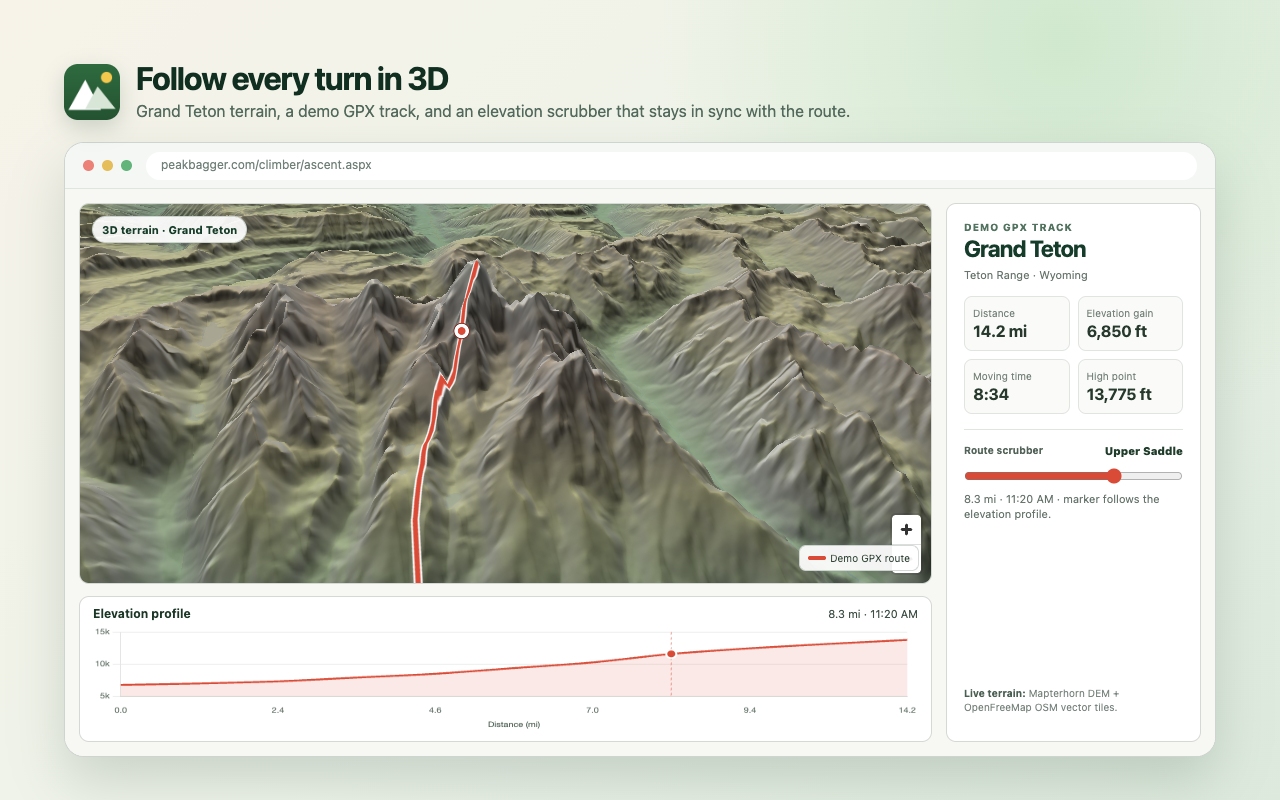
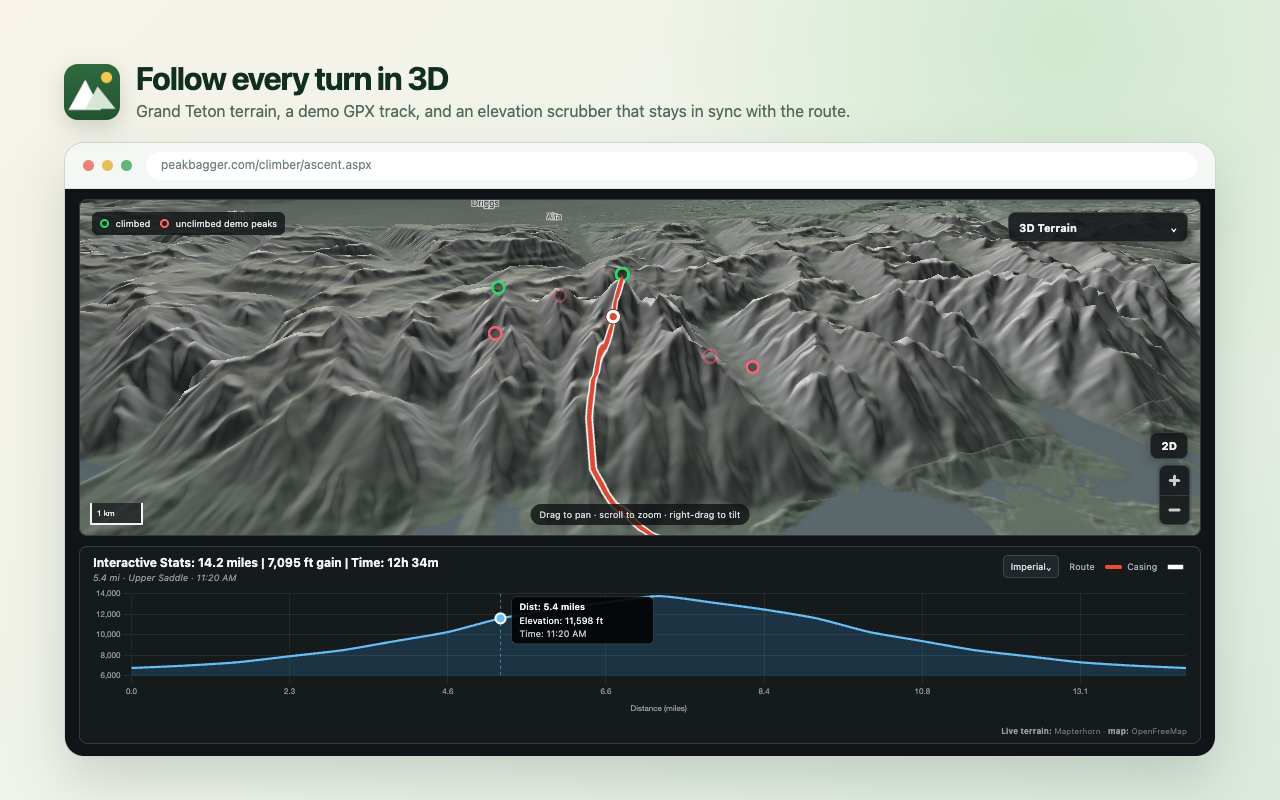
feat: restyle grand teton showcase
Replace the dashboard sidebar with the Peakbagger-like stacked terrain and elevation layout, including a round-trip profile, synchronized hover state, peak rings, and a working 2D/3D control. Keep the live providers and 1280x800 store frame, and flush the static header before capture to avoid a new-headless WebGL compositing omission. Document why the fixture batch and live Teton renderers remain separate.

Checks: npm test (275 passed); npm run showcase:teton:render (passed in hidden Chrome for Testing at 1280x800 with Apple M3 Pro Metal and both live providers); hidden Playwright interaction smoke (chart hover and 2D/3D toggle passed); rendered PNG visually inspected.

diff --git a/scripts/showcase/teton-live-terrain.html b/scripts/showcase/teton-live-terrain.html
@@ -7,34 +7,34 @@
   <link rel="stylesheet" href="/scripts/showcase/showcase.css">
   <link rel="stylesheet" href="/dist/vendor/maplibre-gl.css">
   <style>
-    .terrain-stage { height: calc(100% - 46px); padding: 14px; background: #f7f7f3; }
-    .terrain-layout { display: grid; grid-template-columns: minmax(0, 1fr) 255px; gap: 14px; height: 100%; }
-    .terrain-left { display: grid; grid-template-rows: minmax(0, 1fr) 146px; gap: 12px; min-width: 0; }
-    .map-card, .chart-card, .stats-card { overflow: hidden; border: 1px solid #d5d9d4; border-radius: 10px; background: #fff; }
-    .map-card { position: relative; width: auto; height: auto; min-height: 0; margin: 0; background: #dce6e1; }
+    .terrain-stage { height: calc(100% - 46px); padding: 10px 14px 12px; color: #d9dfe2; background: #101416; }
+    .terrain-layout { display: grid; grid-template-rows: minmax(0, 1.7fr) minmax(190px, 1fr); gap: 10px; height: 100%; }
+    .map-card, .chart-card { overflow: hidden; border: 1px solid #343c40; border-radius: 8px; background: #151a1d; }
+    .map-card { position: relative; width: auto; height: auto; min-height: 0; margin: 0; }
     #teton-map { width: 100%; height: 100%; }
-    .map-tag { position: absolute; top: 12px; left: 12px; z-index: 2; border: 1px solid rgba(19, 56, 37, .18); border-radius: 999px; padding: 6px 9px; color: #173d2a; background: rgba(255, 255, 255, .92); box-shadow: 0 2px 8px rgba(0, 0, 0, .12); font-size: 11px; font-weight: 750; pointer-events: none; }
-    .map-legend { position: absolute; right: 12px; bottom: 12px; z-index: 2; border: 1px solid rgba(19, 56, 37, .18); border-radius: 7px; padding: 6px 8px; color: #34463a; background: rgba(255, 255, 255, .92); font-size: 10px; pointer-events: none; }
-    .map-legend i { display: inline-block; width: 18px; height: 4px; margin: 0 4px 2px 0; border-radius: 3px; background: #d94b36; vertical-align: middle; }
-    .chart-card { position: relative; padding: 9px 12px 7px; }
-    .chart-head { display: flex; align-items: baseline; justify-content: space-between; margin: 0 1px 4px; color: #405048; font-size: 11px; }
-    .chart-head strong { color: #1c3628; font-size: 12px; }
-    #elevation-chart { width: 100% !important; height: 108px !important; }
-    .stats-card { display: flex; flex-direction: column; padding: 17px; color: #24382c; }
-    .eyebrow { margin: 0 0 4px; color: #52735f; font-size: 10px; font-weight: 800; letter-spacing: .1em; text-transform: uppercase; }
-    .stats-card h2 { margin: 0; color: #153b2a; font-size: 23px; line-height: 1.08; letter-spacing: -.035em; }
-    .subhead { margin: 6px 0 15px; color: #68766e; font-size: 11px; }
-    .metrics { display: grid; grid-template-columns: 1fr 1fr; gap: 8px; }
-    .metric { padding: 10px 8px; border: 1px solid #e0e5df; border-radius: 8px; background: #fafbf9; }
-    .metric span { display: block; color: #77847b; font-size: 10px; }
-    .metric strong { display: block; margin-top: 3px; color: #26392c; font-size: 16px; letter-spacing: -.02em; }
-    .scrubber { margin-top: 15px; padding-top: 14px; border-top: 1px solid #e0e5df; }
-    .scrubber-title { display: flex; align-items: center; justify-content: space-between; gap: 8px; color: #536359; font-size: 10px; font-weight: 700; }
-    .scrubber-title strong { color: #213e2c; font-size: 11px; }
-    input[type="range"] { width: 100%; margin: 11px 0 8px; accent-color: #d94b36; }
-    .scrubber-copy { margin: 0; color: #68766e; font-size: 11px; line-height: 1.35; }
-    .providers { margin-top: auto; padding-top: 14px; color: #7a867f; font-size: 10px; line-height: 1.35; }
-    .providers b { color: #4b5f52; }
+    .map-style { position: absolute; top: 12px; right: 12px; z-index: 2; display: flex; align-items: center; justify-content: space-between; width: 180px; border: 1px solid rgba(255, 255, 255, .16); border-radius: 7px; padding: 7px 10px; color: #eef1f2; background: rgba(20, 24, 25, .9); box-shadow: 0 3px 12px rgba(0, 0, 0, .24); font-size: 11px; font-weight: 700; pointer-events: none; }
+    .map-mode { position: absolute; right: 12px; bottom: 76px; z-index: 2; border: 1px solid rgba(255, 255, 255, .14); border-radius: 7px; padding: 7px 10px; color: #f0f2f3; background: rgba(20, 24, 25, .9); box-shadow: 0 3px 12px rgba(0, 0, 0, .24); font: 750 11px/1 system-ui, sans-serif; cursor: pointer; }
+    .map-hint { position: absolute; left: 50%; bottom: 10px; z-index: 2; transform: translateX(-50%); border-radius: 999px; padding: 5px 9px; color: #d3d8da; background: rgba(13, 16, 17, .78); font-size: 9px; pointer-events: none; }
+    .peak-legend { position: absolute; left: 12px; top: 12px; z-index: 2; border-radius: 6px; padding: 6px 8px; color: #e7eaeb; background: rgba(18, 22, 23, .84); font-size: 9px; pointer-events: none; }
+    .peak-legend i { display: inline-block; width: 9px; height: 9px; margin: 0 4px -1px 7px; border: 2px solid #ff6175; border-radius: 50%; }
+    .peak-legend i:first-child { margin-left: 0; border-color: #25df61; }
+    .chart-card { position: relative; padding: 8px 13px 7px; }
+    .chart-summary { display: grid; grid-template-columns: minmax(0, 1fr) auto; align-items: start; gap: 18px; margin-bottom: 3px; }
+    .chart-summary strong { display: block; color: #f2f4f5; font-size: 12px; letter-spacing: -.01em; }
+    .chart-summary p { margin: 2px 0 0; color: #8f9aa0; font-size: 9px; font-style: italic; }
+    .chart-actions { display: flex; align-items: center; gap: 10px; color: #aab2b6; font-size: 9px; }
+    .unit-pill { border: 1px solid #3c474c; border-radius: 5px; padding: 5px 7px; color: #dce1e3; background: #20272a; font-size: 9px; }
+    .route-key i { display: inline-block; width: 17px; height: 4px; margin: 0 3px 1px 7px; border-radius: 2px; background: #ef4b32; vertical-align: middle; }
+    .route-key i.casing { height: 6px; border: 1px solid #4a5357; background: #fff; }
+    .chart-wrap { height: 137px; }
+    #elevation-chart { width: 100% !important; height: 137px !important; }
+    .providers { position: absolute; right: 13px; bottom: 7px; margin: 0; color: #6e797f; font-size: 8px; }
+    .providers b { color: #929ca1; }
+    .maplibregl-ctrl-group { overflow: hidden; border: 1px solid rgba(255,255,255,.14); border-radius: 7px; background: rgba(20, 24, 25, .9); box-shadow: 0 3px 12px rgba(0,0,0,.24); }
+    .maplibregl-ctrl-group button { background-color: transparent; }
+    .maplibregl-ctrl-group button + button { border-top-color: rgba(255,255,255,.12); }
+    .maplibregl-ctrl-group button .maplibregl-ctrl-icon { filter: invert(1); }
+    .maplibregl-ctrl-scale { border-color: #f2f2f2; color: #f2f2f2; background: rgba(20, 24, 25, .72); font-size: 8px; }
   </style>
 </head>
 <body>
@@ -51,34 +51,27 @@
       <div class="browser-bar"><span class="traffic-lights"><i></i><i></i><i></i></span><div class="address">peakbagger.com/climber/ascent.aspx</div></div>
       <div class="terrain-stage">
         <div class="terrain-layout">
-          <div class="terrain-left">
-            <section class="map-card">
-              <div id="teton-map" aria-label="Interactive 3D terrain map of Grand Teton"></div>
-              <span class="map-tag">3D terrain · Grand Teton</span>
-              <span class="map-legend"><i></i>Demo GPX route</span>
-            </section>
-            <section class="chart-card" aria-label="Elevation profile">
-              <div class="chart-head"><strong>Elevation profile</strong><span id="chart-distance">8.3 mi · 11:20 AM</span></div>
-              <canvas id="elevation-chart"></canvas>
-            </section>
-          </div>
-          <aside class="stats-card">
-            <p class="eyebrow">Demo GPX track</p>
-            <h2>Grand Teton</h2>
-            <p class="subhead">Teton Range · Wyoming</p>
-            <div class="metrics">
-              <div class="metric"><span>Distance</span><strong>14.2 mi</strong></div>
-              <div class="metric"><span>Elevation gain</span><strong>6,850 ft</strong></div>
-              <div class="metric"><span>Moving time</span><strong>8:34</strong></div>
-              <div class="metric"><span>High point</span><strong>13,775 ft</strong></div>
+          <section class="map-card">
+            <div id="teton-map" aria-label="Interactive 3D terrain map of Grand Teton"></div>
+            <span class="peak-legend"><i></i> climbed <i></i> unclimbed demo peaks</span>
+            <span class="map-style">3D Terrain <span aria-hidden="true">⌄</span></span>
+            <button class="map-mode" id="map-mode" type="button">2D</button>
+            <span class="map-hint">Drag to pan · scroll to zoom · right-drag to tilt</span>
+          </section>
+          <section class="chart-card" aria-label="Synchronized elevation profile">
+            <div class="chart-summary">
+              <div>
+                <strong>Interactive Stats: 14.2 miles | 7,095 ft gain | Time: 12h 34m</strong>
+                <p id="chart-position">5.4 mi · Upper Saddle · 11:20 AM</p>
+              </div>
+              <div class="chart-actions">
+                <span class="unit-pill">Imperial⌄</span>
+                <span class="route-key">Route <i></i> Casing <i class="casing"></i></span>
+              </div>
             </div>
-            <div class="scrubber">
-              <div class="scrubber-title"><span>Route scrubber</span><strong id="scrubber-place">Upper Saddle</strong></div>
-              <input id="route-scrubber" type="range" min="0" max="10" value="7" aria-label="Route scrubber">
-              <p class="scrubber-copy" id="scrubber-copy">8.3 mi · 11:20 AM · marker follows the elevation profile.</p>
-            </div>
-            <p class="providers"><b>Live terrain:</b> Mapterhorn DEM + OpenFreeMap OSM vector tiles.</p>
-          </aside>
+            <div class="chart-wrap"><canvas id="elevation-chart"></canvas></div>
+            <p class="providers"><b>Live terrain:</b> Mapterhorn · <b>map:</b> OpenFreeMap</p>
+          </section>
         </div>
       </div>
     </section>
@@ -89,18 +82,38 @@
   <script>
     (() => {
       'use strict';
-      const points = [
+      const ascentPoints = [
         { lat: 43.7347, lon: -110.7415, ele: 2060, miles: 0, time: '5:40 AM', place: 'Lupine Meadows' },
-        { lat: 43.7316, lon: -110.7455, ele: 2130, miles: 1.2, time: '6:10 AM', place: 'Valley trail' },
-        { lat: 43.7292, lon: -110.7525, ele: 2230, miles: 2.4, time: '6:48 AM', place: 'Garnet Canyon' },
-        { lat: 43.7275, lon: -110.7607, ele: 2410, miles: 3.6, time: '7:35 AM', place: 'Moraine switchbacks' },
-        { lat: 43.7287, lon: -110.7704, ele: 2590, miles: 4.6, time: '8:20 AM', place: 'Garnet Meadows' },
-        { lat: 43.7313, lon: -110.7810, ele: 2860, miles: 5.8, time: '9:05 AM', place: 'Boulder field' },
-        { lat: 43.7347, lon: -110.7897, ele: 3130, miles: 7.0, time: '9:48 AM', place: 'Lower Saddle' },
-        { lat: 43.7380, lon: -110.7962, ele: 3535, miles: 8.3, time: '11:20 AM', place: 'Upper Saddle' },
-        { lat: 43.7390, lon: -110.7990, ele: 3800, miles: 9.4, time: '12:05 PM', place: 'The Enclosure' },
-        { lat: 43.7402, lon: -110.8008, ele: 4010, miles: 11.1, time: '12:45 PM', place: 'Summit ridge' },
-        { lat: 43.7412, lon: -110.8024, ele: 4199, miles: 14.2, time: '1:15 PM', place: 'Grand Teton summit' }
+        { lat: 43.7316, lon: -110.7455, ele: 2130, miles: .7, time: '6:10 AM', place: 'Valley trail' },
+        { lat: 43.7292, lon: -110.7525, ele: 2230, miles: 1.5, time: '6:48 AM', place: 'Garnet Canyon' },
+        { lat: 43.7275, lon: -110.7607, ele: 2410, miles: 2.3, time: '7:35 AM', place: 'Moraine switchbacks' },
+        { lat: 43.7287, lon: -110.7704, ele: 2590, miles: 3.1, time: '8:20 AM', place: 'Garnet Meadows' },
+        { lat: 43.7313, lon: -110.7810, ele: 2860, miles: 3.8, time: '9:05 AM', place: 'Boulder field' },
+        { lat: 43.7347, lon: -110.7897, ele: 3130, miles: 4.6, time: '9:48 AM', place: 'Lower Saddle' },
+        { lat: 43.7380, lon: -110.7962, ele: 3535, miles: 5.4, time: '11:20 AM', place: 'Upper Saddle' },
+        { lat: 43.7390, lon: -110.7990, ele: 3800, miles: 6.0, time: '12:05 PM', place: 'The Enclosure' },
+        { lat: 43.7402, lon: -110.8008, ele: 4010, miles: 6.6, time: '12:45 PM', place: 'Summit ridge' },
+        { lat: 43.7412, lon: -110.8024, ele: 4199, miles: 7.1, time: '1:15 PM', place: 'Grand Teton summit' }
+      ];
+      const descentMiles = [7.7, 8.4, 9.2, 10.0, 10.8, 11.6, 12.4, 13.1, 13.7, 14.2];
+      const descentTimes = ['1:48 PM', '2:25 PM', '3:05 PM', '3:46 PM', '4:18 PM', '4:45 PM', '5:10 PM', '5:36 PM', '5:58 PM', '6:14 PM'];
+      const points = [
+        ...ascentPoints,
+        ...ascentPoints.slice(0, -1).reverse().map((point, index) => ({
+          ...point,
+          miles: descentMiles[index],
+          time: descentTimes[index],
+          place: `Return · ${point.place}`
+        }))
+      ];
+      const peaks = [
+        { coordinates: [-110.8024, 43.7412], climbed: true },
+        { coordinates: [-110.8171, 43.7306], climbed: false },
+        { coordinates: [-110.8205, 43.7186], climbed: true },
+        { coordinates: [-110.7790, 43.7524], climbed: false },
+        { coordinates: [-110.8074, 43.7166], climbed: false },
+        { coordinates: [-110.8288, 43.7415], climbed: false },
+        { coordinates: [-110.7902, 43.7664], climbed: false }
       ];
       const feet = value => Math.round(value * 3.28084);
       let activeIndex = 7;
@@ -121,7 +134,7 @@
           if (!point || !area) return;
           const ctx = instance.ctx;
           ctx.save();
-          ctx.strokeStyle = 'rgba(217, 75, 54, .55)';
+          ctx.strokeStyle = 'rgba(103, 190, 246, .55)';
           ctx.lineWidth = 1;
           ctx.setLineDash([3, 3]);
           ctx.beginPath();
@@ -129,13 +142,33 @@
           ctx.lineTo(point.x, area.bottom);
           ctx.stroke();
           ctx.setLineDash([]);
-          ctx.fillStyle = '#d94b36';
+          ctx.fillStyle = '#67bef6';
           ctx.strokeStyle = '#fff';
           ctx.lineWidth = 2;
           ctx.beginPath();
           ctx.arc(point.x, point.y, 5, 0, Math.PI * 2);
           ctx.fill();
           ctx.stroke();
+
+          const data = points[activeIndex];
+          const width = 142;
+          const height = 47;
+          const left = Math.min(point.x + 11, area.right - width - 3);
+          const top = Math.max(area.top + 3, point.y - height - 9);
+          ctx.fillStyle = 'rgba(2, 4, 5, .92)';
+          ctx.strokeStyle = 'rgba(255, 255, 255, .12)';
+          ctx.lineWidth = 1;
+          ctx.beginPath();
+          ctx.roundRect(left, top, width, height, 5);
+          ctx.fill();
+          ctx.stroke();
+          ctx.fillStyle = '#f2f4f5';
+          ctx.font = '600 9px system-ui, sans-serif';
+          ctx.fillText(`Dist: ${data.miles.toFixed(1)} miles`, left + 8, top + 13);
+          ctx.font = '9px system-ui, sans-serif';
+          ctx.fillText(`Elevation: ${feet(data.ele).toLocaleString()} ft`, left + 8, top + 27);
+          ctx.fillStyle = '#b9c2c6';
+          ctx.fillText(`Time: ${data.time}`, left + 8, top + 40);
           ctx.restore();
         }
       };
@@ -143,9 +176,7 @@
       const updateScrubber = index => {
         activeIndex = Number(index);
         const point = points[activeIndex];
-        document.getElementById('scrubber-place').textContent = point.place;
-        document.getElementById('scrubber-copy').textContent = `${point.miles.toFixed(1)} mi · ${point.time} · marker follows the elevation profile.`;
-        document.getElementById('chart-distance').textContent = `${point.miles.toFixed(1)} mi · ${point.time}`;
+        document.getElementById('chart-position').textContent = `${point.miles.toFixed(1)} mi · ${point.place} · ${point.time}`;
         if (markerSource) markerSource.setData(markerFeature(activeIndex));
         if (chart) chart.update('none');
       };
@@ -157,8 +188,8 @@
             labels: points.map(point => point.miles.toFixed(1)),
             datasets: [{
               data: points.map(point => feet(point.ele)),
-              borderColor: '#d94b36',
-              backgroundColor: 'rgba(217, 75, 54, .12)',
+              borderColor: '#67bef6',
+              backgroundColor: 'rgba(54, 142, 202, .22)',
               fill: true,
               pointRadius: 0,
               borderWidth: 2.2,
@@ -169,10 +200,11 @@
             responsive: true,
             maintainAspectRatio: false,
             animation: false,
+            layout: { padding: { bottom: 6 } },
             plugins: { legend: { display: false }, tooltip: { enabled: false } },
             scales: {
-              x: { grid: { display: false }, ticks: { color: '#69786f', font: { size: 9 }, maxTicksLimit: 7 }, title: { display: true, text: 'Distance (mi)', color: '#55665b', font: { size: 9 } } },
-              y: { grid: { color: 'rgba(69, 92, 76, .12)' }, ticks: { color: '#69786f', font: { size: 9 }, maxTicksLimit: 4, callback: value => `${Math.round(value / 1000)}k` } }
+              x: { grid: { color: 'rgba(160, 176, 185, .10)' }, ticks: { color: '#8d989e', font: { size: 8 }, maxTicksLimit: 8 }, title: { display: true, text: 'Distance (miles)', color: '#939da2', font: { size: 8 } } },
+              y: { grid: { color: 'rgba(160, 176, 185, .12)' }, ticks: { color: '#8d989e', font: { size: 8 }, maxTicksLimit: 5, callback: value => Number(value).toLocaleString() } }
             }
           },
           plugins: [scrubberPlugin]
@@ -184,15 +216,16 @@
         map = new maplibregl.Map({
           container: 'teton-map',
           style: 'https://tiles.openfreemap.org/styles/liberty',
-          center: [-110.787, 43.741],
-          zoom: 12.2,
-          pitch: 60,
+          center: [-110.778, 43.739],
+          zoom: 11.55,
+          pitch: 62,
           bearing: -72,
           attributionControl: false,
           fadeDuration: 0,
           maxPitch: 80
         });
         map.addControl(new maplibregl.NavigationControl({ showCompass: false }), 'bottom-right');
+        map.addControl(new maplibregl.ScaleControl({ maxWidth: 90, unit: 'metric' }), 'bottom-left');
         map.on('error', event => { window.__tetonState.lastError = event?.error?.message || 'Map request failed'; });
         map.on('load', () => {
           map.addSource('terrain-dem', {
@@ -208,11 +241,23 @@
           map.addLayer({
             id: 'terrain-relief', type: 'color-relief', source: 'terrain-dem',
             paint: {
-              'color-relief-color': ['interpolate', ['linear'], ['elevation'], 1800, '#5f806f', 2300, '#809878', 2900, '#afa978', 3500, '#9f8874', 4050, '#d9d7c9', 4500, '#f6f3ed'],
-              'color-relief-opacity': .8
+              'color-relief-color': ['interpolate', ['linear'], ['elevation'], 1800, '#39453e', 2300, '#59635b', 2900, '#75766e', 3500, '#898078', 4050, '#bab8b1', 4500, '#dedbd4'],
+              'color-relief-opacity': .84
             }
           }, terrainLabelLayer);
-          map.addLayer({ id: 'terrain-hillshade', type: 'hillshade', source: 'terrain-dem', paint: { 'hillshade-exaggeration': .35 } });
+          map.addLayer({ id: 'terrain-hillshade', type: 'hillshade', source: 'terrain-dem', paint: { 'hillshade-exaggeration': .45, 'hillshade-shadow-color': '#111516' } });
+          map.addSource('peaks', {
+            type: 'geojson',
+            data: { type: 'FeatureCollection', features: peaks.map(peak => ({
+              type: 'Feature', properties: { climbed: peak.climbed }, geometry: { type: 'Point', coordinates: peak.coordinates }
+            })) }
+          });
+          map.addLayer({
+            id: 'peak-rings', type: 'circle', source: 'peaks', paint: {
+              'circle-radius': 6, 'circle-color': 'rgba(18, 22, 23, .45)', 'circle-stroke-width': 3,
+              'circle-stroke-color': ['case', ['get', 'climbed'], '#25df61', '#ff6175']
+            }
+          });
           map.addSource('route', { type: 'geojson', data: { type: 'Feature', properties: {}, geometry: { type: 'LineString', coordinates: points.map(point => [point.lon, point.lat]) } } });
           map.addLayer({ id: 'route-casing', type: 'line', source: 'route', paint: { 'line-color': '#fff', 'line-width': 7, 'line-opacity': .96 } });
           map.addLayer({ id: 'route-line', type: 'line', source: 'route', paint: { 'line-color': '#d94b36', 'line-width': 4, 'line-opacity': 1 } });
@@ -230,7 +275,17 @@
 
       buildChart();
       buildMap();
-      document.getElementById('route-scrubber').addEventListener('input', event => updateScrubber(event.target.value));
+      document.getElementById('elevation-chart').addEventListener('mousemove', event => {
+        if (!chart) return;
+        const [element] = chart.getElementsAtEventForMode(event, 'index', { intersect: false }, false);
+        if (element && element.index !== activeIndex) updateScrubber(element.index);
+      });
+      document.getElementById('map-mode').addEventListener('click', event => {
+        if (!map) return;
+        const is3d = map.getPitch() > 0;
+        map.easeTo({ pitch: is3d ? 0 : 62, duration: 350 });
+        event.currentTarget.textContent = is3d ? '3D' : '2D';
+      });
     })();
   </script>
 </body>

diff --git a/docs/development.md b/docs/development.md
@@ -83,10 +83,13 @@ only exist under `dist/` after a build.
 | `npm test` | `pretest` builds `dist/`, then runs `test/**/*.test.mjs`. |
 | `npm run verify:extension` | Loads the **real** unpacked `dist/` in headless Chrome for Testing and drives capture, the editor, and the maps. The only check that exercises the true manifest load. |
 | `npm run terrain:verify` | Renders the real MapLibre terrain frame on the GPU with synthetic route, basemap, peak, and CORS-enabled DEM fixtures; it makes no live terrain-provider requests. |
-| `npm run showcase:render` | Builds and renders the local UI showcase fixtures. |
+| `npm run showcase:render` | Builds and batch-renders the activity-capture and GPX fixture assets; requires Chrome, ffmpeg, and the fetched USGS basemap. |
+| `npm run showcase:teton:render` | Builds and renders the single Grand Teton asset from live Mapterhorn and OpenFreeMap tiles; requires network access and hardware WebGL in Chrome for Testing. |
 | `npm run lint` | Builds, then runs `web-ext lint --source-dir dist`. |
 | `npm run package` | Release build + `web-ext build` from `dist/`; writes the canonical Chrome ZIP under `web-ext-artifacts/`. |
 | `npm run start:chromium` / `start:firefox` | Build, watch, launch a web-ext development browser, and auto-reload the extension after successful rebuilds. Firefox mirrors each complete build into its inline-Preferences source first. |
+
+The two showcase renderers stay separate because they have incompatible execution contracts. The batch renderer uses static headless screenshots with the GPU disabled and ffmpeg to assemble animations. The Grand Teton renderer uses Playwright, fails closed without a hardware renderer, waits for two live tile providers, and produces one capture. Keeping the live GPU render opt-in prevents routine fixture refreshes from acquiring network and graphics dependencies.
 
 Chrome stable 137+ rejects command-line `--load-extension`, so
 `start:chromium` needs a compatible Chromium/Chrome for Testing binary (pass